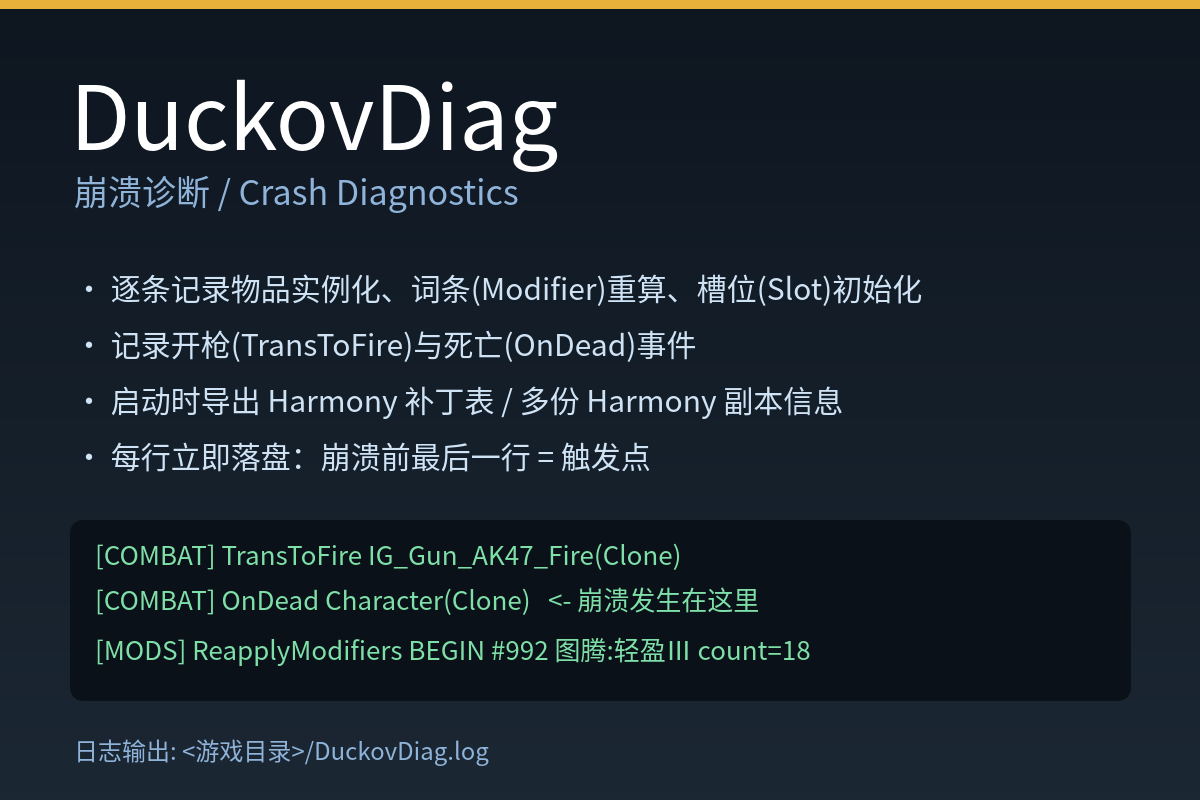
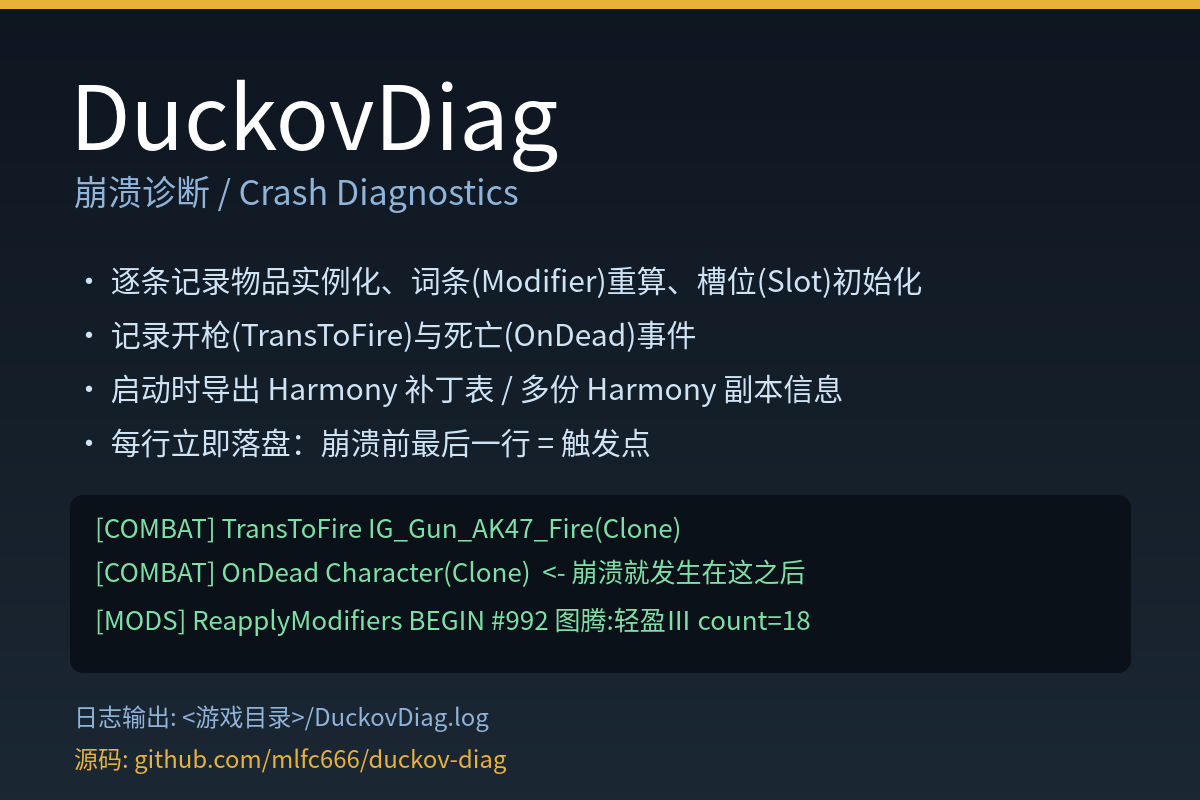
README: 补充创意工坊与源码链接

Changed region(s): [[0.0925, 0.3125, 0.7708, 0.5938], [0.0617, 0.625, 0.6783, 0.8438], [0.0617, 0.875, 0.4317, 0.9688]]

diff --git a/README.md b/README.md
@@ -8,6 +8,14 @@
 
 ---
 
+## Steam 创意工坊
+
+工坊搜索 **「崩溃诊断 DuckovDiag」**（发布后此页会更新链接）。
+
+源码仓库：<https://github.com/mlfc666/duckov-diag>
+
+---
+
 ## 功能
 
 | 日志标签 | 内容 |
